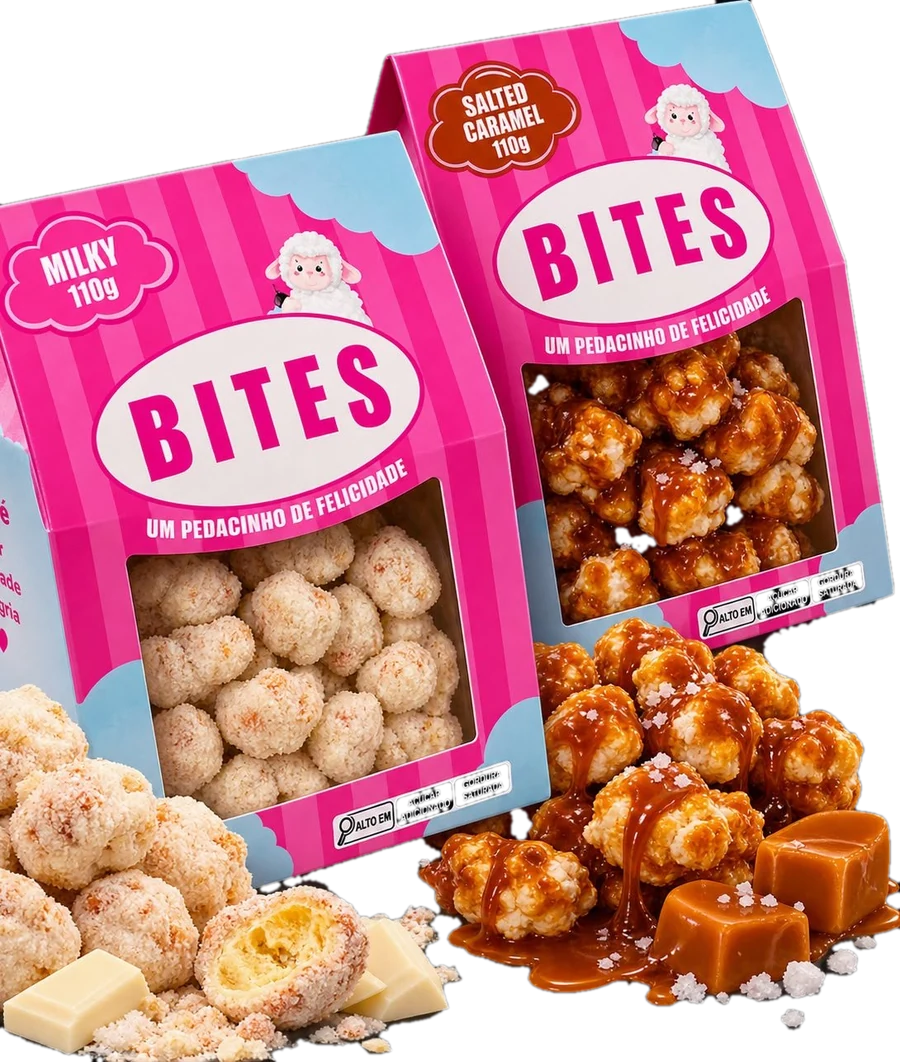
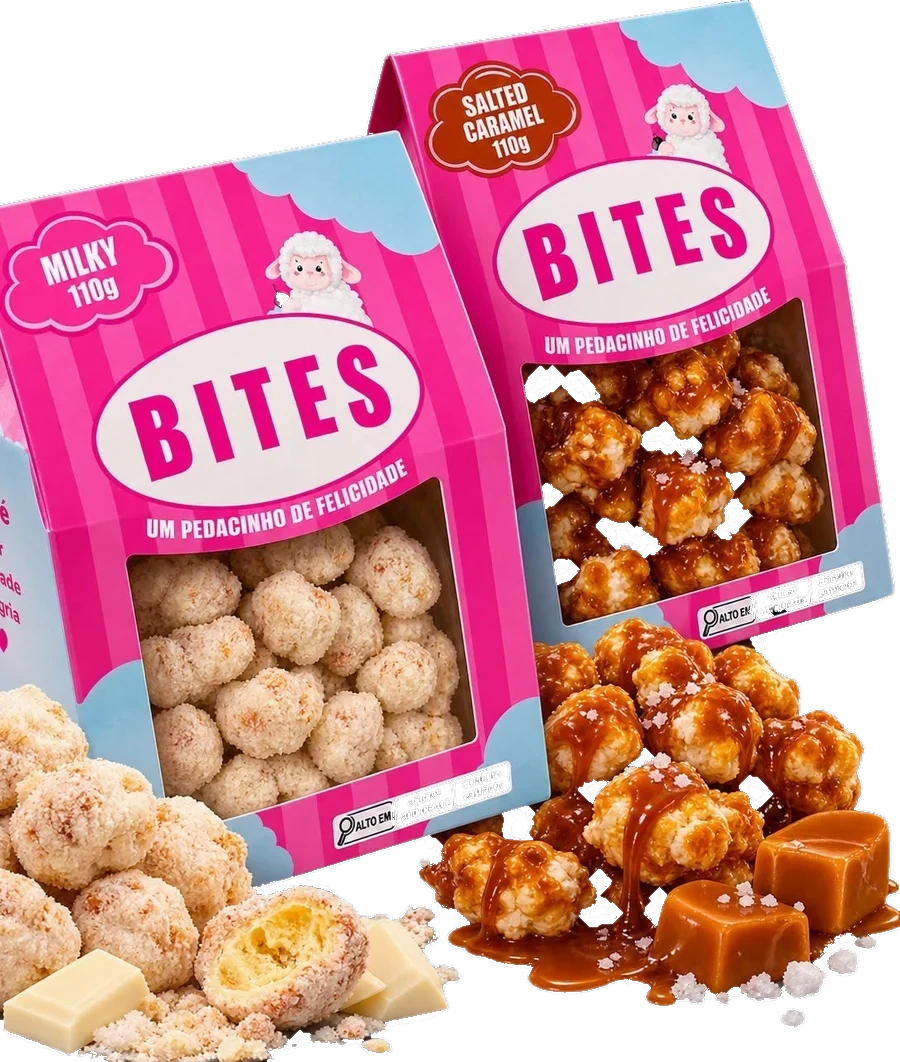
Contato: foto dos pacotes colada no canto inferior esquerdo
A foto original é cortada na esquerda e embaixo; encostando nessas bordas
ela não fica com cara de recorte. No celular a base some num degradê.
Recorte refeito sem os pontinhos e o contorno escuro da aresta das caixas.

Claude-Session: https://claude.ai/code/session_01YLmJ7uevQKNQueWA5LqTBy

diff --git a/estilo.css b/estilo.css
@@ -271,9 +271,10 @@ body.em-produto main{display:none}
 /* ===== CONTATO ===== */
 .contato{background:var(--ceu);color:var(--tinta)}
 .contato-grade{display:grid;grid-template-columns:1fr 1fr;min-height:520px}
-@media (max-width:768px){.contato-grade{grid-template-columns:1fr}.contato-img{height:340px;padding:20px 20px 0}}
-.contato-img{display:flex;align-items:center;justify-content:center;padding:32px}
-.contato-img img{width:100%;height:100%;max-height:560px;object-fit:contain;filter:drop-shadow(0 24px 34px rgba(40,90,130,.35))}
+@media (max-width:768px){.contato-grade{grid-template-columns:1fr}.contato-img{padding:24px 24px 0 0}.contato-img img{max-height:360px;-webkit-mask-image:linear-gradient(to bottom,#000 82%,transparent);mask-image:linear-gradient(to bottom,#000 82%,transparent)}}
+/* a foto é reta na esquerda e embaixo: fica colada no canto inferior esquerdo */
+.contato-img{display:flex;align-items:flex-end;justify-content:flex-start;padding:40px 24px 0 0;overflow:hidden}
+.contato-img img{width:auto;height:auto;max-width:100%;max-height:600px;filter:drop-shadow(12px 20px 30px rgba(40,90,130,.3))}
 .contato-col{display:flex;flex-direction:column;justify-content:center;padding:48px 32px;max-width:616px;margin:0 auto;width:100%}
 .contato h2{font-family:var(--display);font-weight:400;font-size:clamp(2.1rem,4vw,3.4rem);text-transform:uppercase;line-height:1.08;margin:0 0 12px}
 .contato-desc{font-size:15px;line-height:1.6;margin:0 0 24px}
